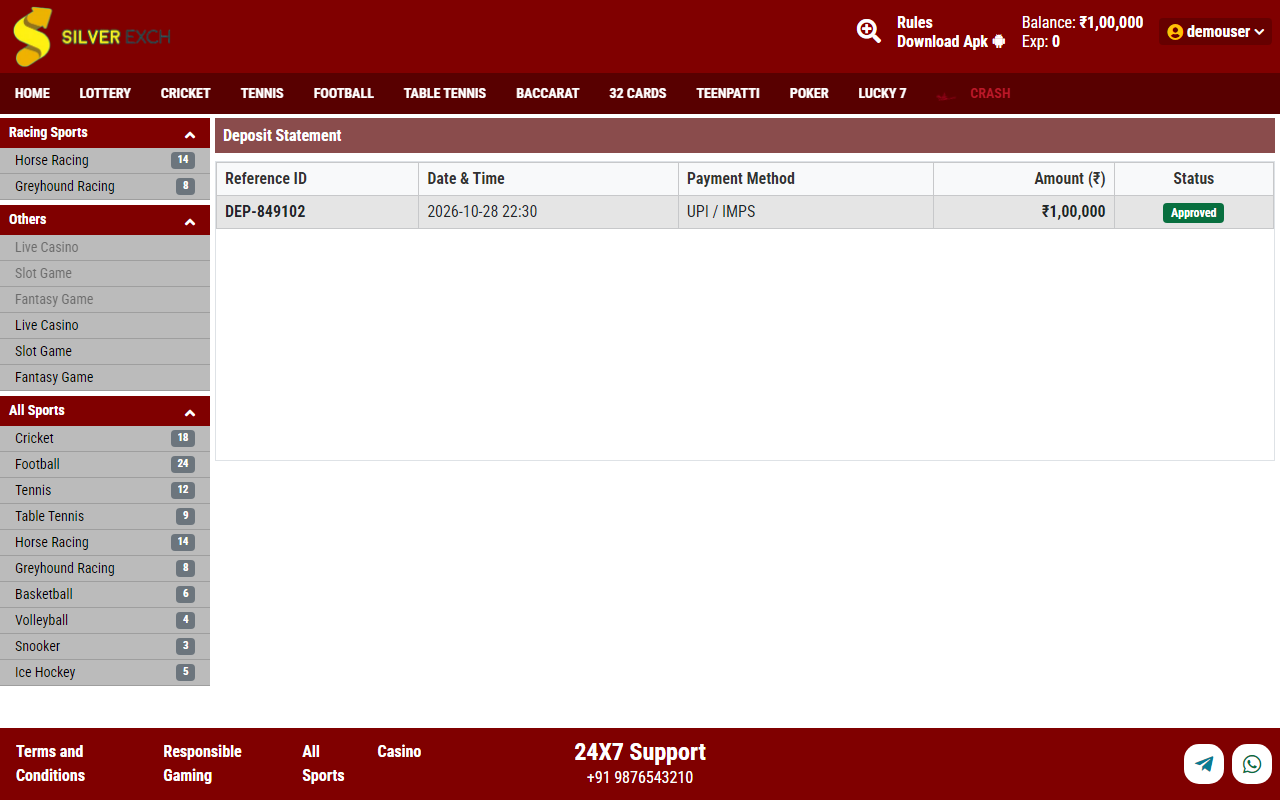
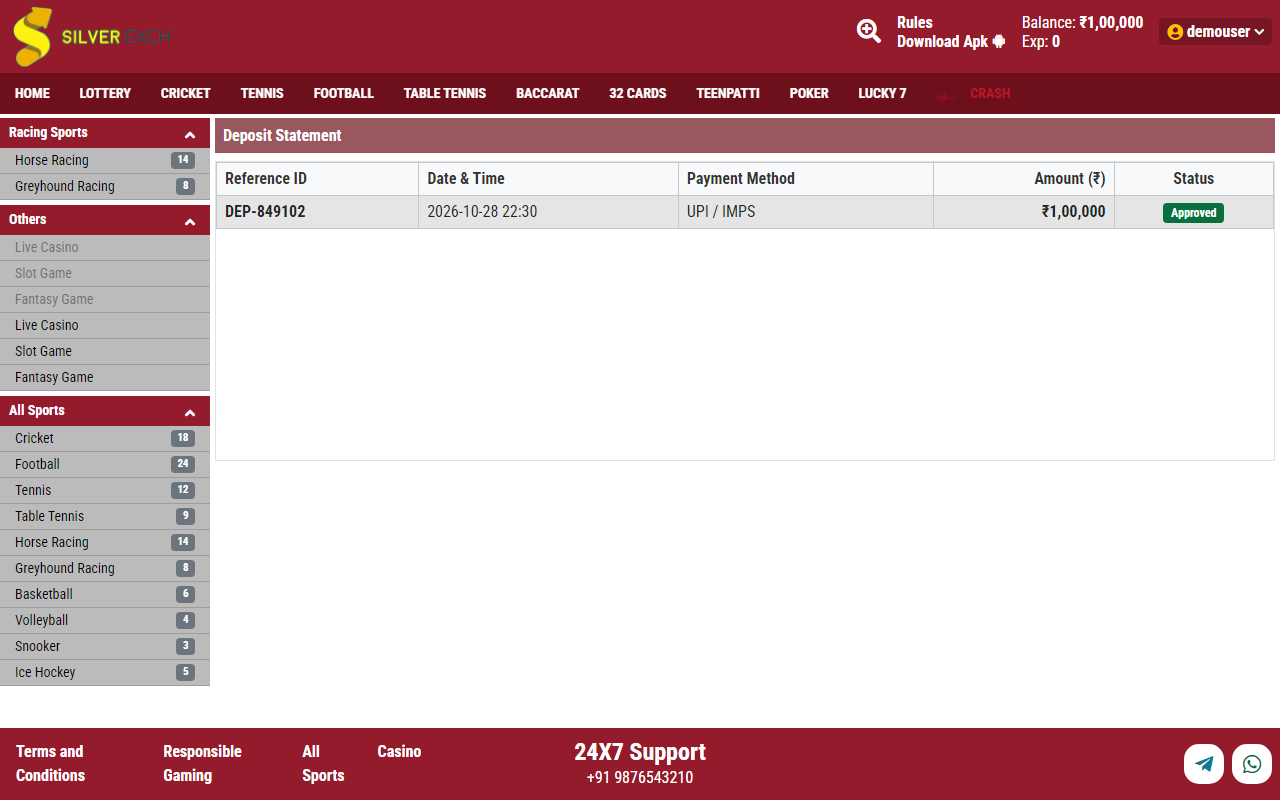
style: apply lighter rich maroon theme (#941b2c / #6e101c)

diff --git a/src/components/Header.jsx b/src/components/Header.jsx
@@ -404,8 +404,8 @@ export const Header = ({ onToggleSidebar }) => {
           style={{ background: 'rgba(0,0,0,0.7)', zIndex: 1200 }}
         >
           <div className="modal-dialog modal-dialog-centered">
-            <div className="modal-content" style={{ background: '#1c2125', color: '#fff', border: '1px solid var(--bg-primary, #800000)' }}>
-              <div className="modal-header" style={{ background: 'var(--bg-primary, #800000)' }}>
+            <div className="modal-content" style={{ background: '#1c2125', color: '#fff', border: '1px solid var(--bg-primary, #941b2c)' }}>
+              <div className="modal-header" style={{ background: 'var(--bg-primary, #941b2c)' }}>
                 <h5 className="modal-title fw-bold">Set Button Values</h5>
                 <button
                   type="button"
@@ -463,8 +463,8 @@ export const Header = ({ onToggleSidebar }) => {
           style={{ background: 'rgba(0,0,0,0.7)', zIndex: 1200 }}
         >
           <div className="modal-dialog modal-lg modal-dialog-centered">
-            <div className="modal-content" style={{ background: '#1c2125', color: '#fff', border: '1px solid var(--bg-primary, #800000)' }}>
-              <div className="modal-header" style={{ background: 'var(--bg-primary, #800000)' }}>
+            <div className="modal-content" style={{ background: '#1c2125', color: '#fff', border: '1px solid var(--bg-primary, #941b2c)' }}>
+              <div className="modal-header" style={{ background: 'var(--bg-primary, #941b2c)' }}>
                 <h5 className="modal-title fw-bold">Rules &amp; Regulations</h5>
                 <button
                   type="button"

diff --git a/src/assets/css/theme.css b/src/assets/css/theme.css
@@ -1,22 +1,22 @@
 :root {
-  --bg-primary: #800000;
-  --bg-primary90: #800000E6;
+  --bg-primary: #941b2c;
+  --bg-primary90: #941b2cE6;
   --text-primary: #FFFFFF;
-  --bg-secondary: #580000;
-  --bg-secondary70: #580000B3;
-  --bg-secondary85: #580000D9;
+  --bg-secondary: #6e101c;
+  --bg-secondary70: #6e101cB3;
+  --bg-secondary85: #6e101cD9;
   --text-secondary: #FFFFFF;
-  --bg-news: #1e0004;
+  --bg-news: #2a050a;
 }
 
-/* Explicit Maroon Theme for Header & Footer */
+/* Explicit Light Maroon Theme for Header & Footer */
 .header-top {
-  background-color: var(--bg-primary, #800000) !important;
+  background-color: var(--bg-primary, #941b2c) !important;
   color: var(--text-primary, #FFFFFF) !important;
 }
 
 .header-bottom {
-  background-color: var(--bg-secondary, #580000) !important;
+  background-color: var(--bg-secondary, #6e101c) !important;
   color: var(--text-secondary, #FFFFFF) !important;
 }
 
@@ -26,7 +26,7 @@
 
 .footer,
 .footer.footer-login {
-  background-color: var(--bg-primary, #800000) !important;
+  background-color: var(--bg-primary, #941b2c) !important;
   color: var(--text-primary, #FFFFFF) !important;
 }
 

diff --git a/src/pages/GameDetailsPage.jsx b/src/pages/GameDetailsPage.jsx
@@ -398,8 +398,8 @@ export const GameDetailsPage = () => {
           style={{ background: 'rgba(0,0,0,0.7)', zIndex: 1200 }}
         >
           <div className="modal-dialog modal-dialog-centered">
-            <div className="modal-content" style={{ background: '#1c2125', color: '#fff', border: '1px solid var(--bg-primary, #800000)' }}>
-              <div className="modal-header" style={{ background: 'var(--bg-primary, #800000)' }}>
+            <div className="modal-content" style={{ background: '#1c2125', color: '#fff', border: '1px solid var(--bg-primary, #941b2c)' }}>
+              <div className="modal-header" style={{ background: 'var(--bg-primary, #941b2c)' }}>
                 <h5 className="modal-title fw-bold">Run Amount - {selectedFancy.name}</h5>
                 <button
                   type="button"

diff --git a/src/pages/RegisterPage.jsx b/src/pages/RegisterPage.jsx
@@ -138,7 +138,7 @@ export const RegisterPage = () => {
               <button 
                 type="submit" 
                 className="btn btn-primary fw-bold py-2"
-                style={{ background: 'var(--bg-primary, #800000)', borderColor: 'var(--bg-primary, #800000)' }}
+                style={{ background: 'var(--bg-primary, #941b2c)', borderColor: 'var(--bg-primary, #941b2c)' }}
               >
                 Register Now <i className="fas fa-arrow-right ms-1"></i>
               </button>

diff --git a/src/data/mockData.js b/src/data/mockData.js
@@ -8,8 +8,8 @@ export const SITE_CONFIG = {
   news: 'Newly Launched Matka Market In Our Exchange | 24X7 Instant Deposits & Withdrawals Available | Enjoy Best Odds On All Cricket & Live Casino Markets',
   themeType: '4',
   bgBody: '#16191C',
-  bgPrimary: '#800000',
-  bgSecondary: '#580000',
+  bgPrimary: '#941b2c',
+  bgSecondary: '#6e101c',
   supportNo: '+91 9876543210',
   telegram: 'https://t.me/silverbhai_official',
   whatsapp: 'https://wa.me/919876543210'

diff --git a/src/components/RightSidebar.jsx b/src/components/RightSidebar.jsx
@@ -47,7 +47,7 @@ export const RightSidebar = () => {
               flexDirection: 'column',
               justifyContent: 'center',
               alignItems: 'center',
-              borderBottom: '1px solid var(--bg-primary, #800000)'
+              borderBottom: '1px solid var(--bg-primary, #941b2c)'
             }}
           >
             <i className="fas fa-play-circle fa-2x text-warning mb-2" style={{ cursor: 'pointer' }}></i>

diff --git a/src/index.css b/src/index.css
@@ -17,9 +17,9 @@
   background: #111417;
 }
 ::-webkit-scrollbar-thumb {
-  background: var(--bg-primary, #800000);
+  background: var(--bg-primary, #941b2c);
   border-radius: 4px;
 }
 ::-webkit-scrollbar-thumb:hover {
-  background: var(--bg-secondary, #580000);
+  background: var(--bg-secondary, #6e101c);
 }

diff --git a/audit/interaction-test-results.md b/audit/interaction-test-results.md
@@ -53,3 +53,4 @@ All core routes were loaded directly via browser URL bar and refreshed (`F5`) to
 - **Login Form**: Validates non-empty username/password fields without submitting payloads to external servers.
 - **Register Form**: Enforces 10-digit mobile number format and matching password confirmation.
 - **Stake Value Settings**: Enforces positive numeric values for user custom stake buttons (`100` to `25,000`).
+

diff --git a/audit/missing-items.md b/audit/missing-items.md
@@ -64,3 +64,4 @@ The following services require production credentials, remote WebSocket servers,
 - **Browser Console Errors**: **0** (Verified via Playwright automated suite)
 - **Failed Network Requests**: **0** (All external ORB-blocked images replaced with resilient local assets and gradient tiles)
 - **Vite Build Warnings**: **0**
+

diff --git a/audit/visual-regression.md b/audit/visual-regression.md
@@ -67,3 +67,4 @@ The following screenshot files are stored in `audit/screenshots/`:
 - `mobile_home.png`: Mobile home view.
 - `mobile_sidebar_open.png`: Mobile off-canvas sports drawer active.
 - `mobile_game_details.png`: Mobile cricket match view.
+
